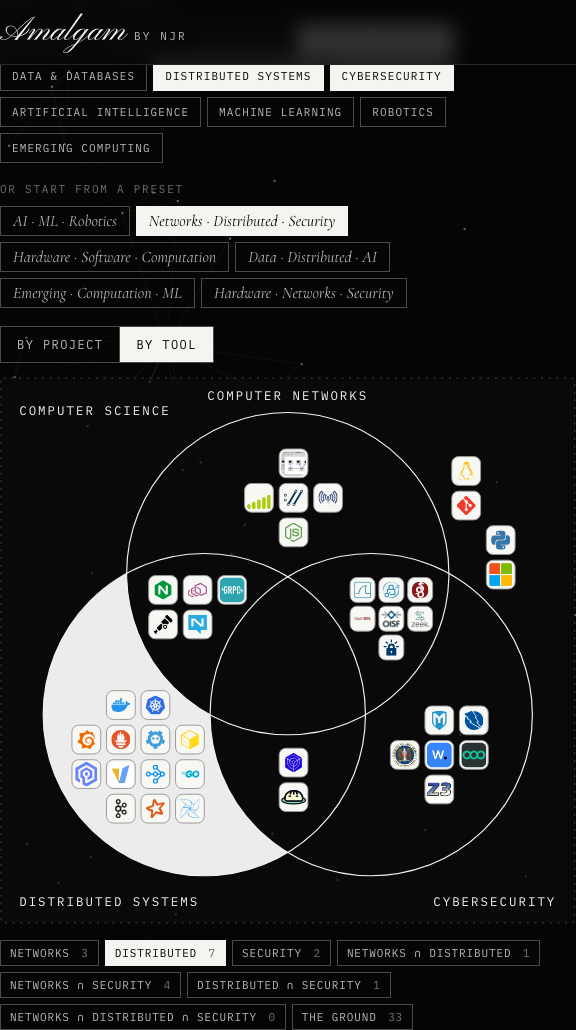
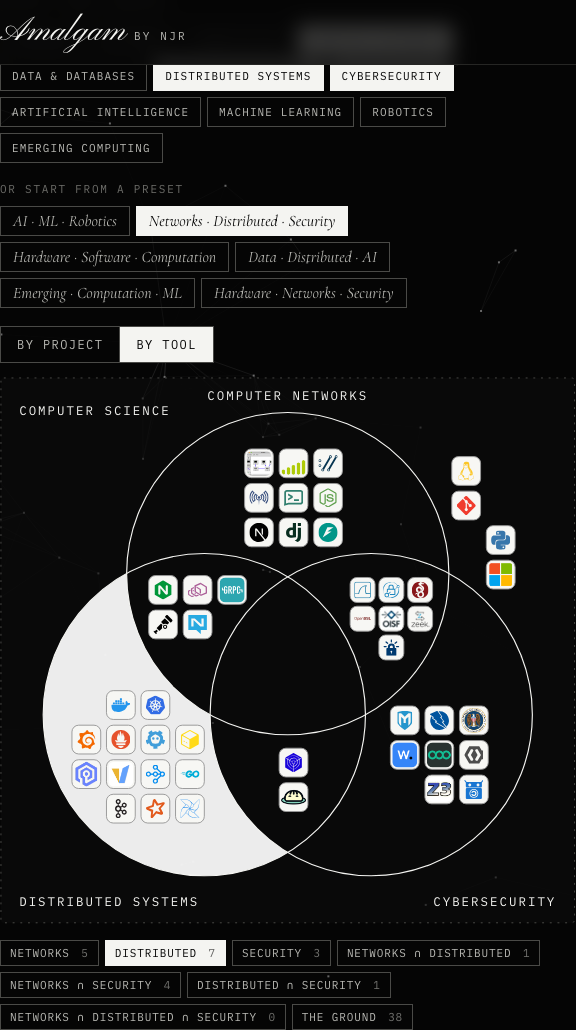
Update README for Build Paths and refresh screenshots

Changed region(s): [[0.4062, 0.435, 0.5938, 0.5592], [0.6562, 0.6835, 0.875, 0.8078]]

diff --git a/README.md b/README.md
@@ -8,9 +8,10 @@
 
 [![Live](https://img.shields.io/badge/live-amalgambynjr.vercel.app-000000?style=flat-square&logo=vercel&logoColor=white)](https://amalgambynjr.vercel.app)
 ![Domains](https://img.shields.io/badge/domains-11-000000?style=flat-square)
-![Tools](https://img.shields.io/badge/tools-115-000000?style=flat-square)
-![Projects](https://img.shields.io/badge/projects-51-000000?style=flat-square)
-![Chains](https://img.shields.io/badge/recommendation%20chains-18-000000?style=flat-square)
+![Tools](https://img.shields.io/badge/open--source%20tools-141-000000?style=flat-square)
+![Build paths](https://img.shields.io/badge/build%20paths-11-000000?style=flat-square)
+![Projects](https://img.shields.io/badge/projects-59-000000?style=flat-square)
+![Chains](https://img.shields.io/badge/recommendation%20chains-20-000000?style=flat-square)
 ![Stack](https://img.shields.io/badge/stack-HTML%20·%20CSS%20·%20JS-000000?style=flat-square)
 
 ![Amalgam hero](docs/hero.png)
@@ -21,7 +22,7 @@
 
 ## About
 
-**Amalgam** is a research-style field guide to the **free and open-source tools** you can use to build a proper project across **eleven domains of computer science**, read alongside **current trends and live news**:
+**Amalgam** is a research-style field guide to building real projects with **only free, open-source tools**. Start from what you want to build (a web app, a mobile app, an AI/ML system, a robot), see the **common architecture** for that kind of project with the open tools for every layer, and explore project recipes across **eleven domains of computer science**, alongside **current trends and live news**:
 
 > Hardware · Software · Computation · Computer Networks · Data & Databases · Distributed Systems · Cybersecurity · Artificial Intelligence · Machine Learning · Robotics · Emerging Computing
 
@@ -33,12 +34,17 @@ The design is futuristic and monochrome, with black and white throughout and onl
 
 | Section | What it does |
 |---|---|
-| **§1 The Atlas** | 115 open-source tools, each with its full-colour logo, purpose, licence and every domain it serves. Filter by any of the 11 domains or search by name, purpose, domain or licence (e.g. `quantum`, `VPN`, `LLM`, `MIT`). |
-| **§2 The Amalgam Map** | An interactive **Venn diagram of any three domains**, picked by hand or from presets (*AI · ML · Robotics*, *Networks · Distributed · Security*, *Hardware · Software · Computation*…). Each project and tool is tagged with its domains, so it lands in the matching overlap. **By project** writes project names inside each region; **by tool** places tool logos there, with *+N more* when a region is crowded. Select a region to see its tools and projects, or a logo to see every project the tool appears in, the role it plays and why it is needed. |
-| **§3 Recommendation Chains** | Step-by-step tool chains for 18 projects spanning every domain. Every link names the tool, the **role** it plays, **why the project needs it**, and an alternative. Reach a chain from its project in the map via *Follow the chain →*. |
-| **§4 Currents & Trends** | Twelve movements across the field: agentic AI, open-weight models, post-quantum cryptography, open hardware and RISC-V, community forks after licence changes, in-process analytics, OpenTelemetry, quantum error correction and more, each linked to its tools. |
+| **§1 Build Paths** | Start here. Choose a path: **Software Engineering → Web applications / Mobile applications**, **AI / ML**, **Robotics**, then Data, Distributed systems, Networks, Security, Hardware, Computation and Emerging computing. Each path shows its **common-path architecture**: the layers a typical project passes through (e.g. *Interface → Build & style → Server & API → Data → Identity → Test → Deliver → Observe*), with the open-source tools for every layer. Below it are **explorable project cards**; hover one to light up the layers and tools it uses, or open it in a drawer showing the full stack, each tool's role and why it's needed, where it sits in the architecture, and links to its chain and its place on the map. |
+| **§2 The Amalgam Map** | An interactive **Venn diagram of any three domains**, picked by hand or from presets. Each project and tool lands in the overlap matching its domains. **By project** writes project names inside each region; **by tool** places tool logos there, with *+N more* when a region is crowded. |
+| **§3 Recommendation Chains** | Step-by-step tool chains for 20 projects. Every link names the tool, the **role** it plays, **why the project needs it**, and an alternative. |
+| **§4 Currents & Trends** | Twelve movements across the field, each linked to its tools. |
 | **§5 The Live Wire** | Headlines on AI, ML, Robotics, Security, Networking, Databases, Distributed Systems, Hardware, Quantum and Open Source, fetched live from the Hacker News index each time the page loads. |
-| **§6 Method** | How tools were chosen, and a reminder to verify licences before you build. |
+| **§6 Method** | How tools were chosen: open-source licences only, no paid plans, and open community forks where a project left open source. |
+| **§7 The Atlas** | The full catalogue at the bottom: 141 open-source tools with logos, licences and domains. Filter by domain or search; every card opens the tool drawer. |
+
+Clicking a tool anywhere on the site opens a drawer with its licence, domains, its layer in each build path, and every project that uses it.
+
+![Build paths](docs/paths.png)
 
 | By project | By tool |
 |---|---|
@@ -91,7 +97,7 @@ Plain **HTML, CSS and vanilla JavaScript**, with no framework and no build step.
 ```
 ├── index.html   # Page structure and sections
 ├── styles.css   # Monochrome, research-style design
-├── data.js      # Domains, tools, projects, chains, trends, map presets, news topics (edit content here)
+├── data.js      # Domains, build tracks, architectures, tools, projects, chains, trends, map presets, news topics
 ├── app.js       # Atlas filtering, Venn map, chains, live wire, background animation
 ├── logos/       # Self-hosted tool logos
 └── docs/        # README screenshots
@@ -112,11 +118,12 @@ All content lives in **`data.js`**.
 
 - **Domains:** `hardware`, `software`, `computation`, `networks`, `data`, `distributed`, `security`, `ai`, `ml`, `robotics`, `emerging`.
 - **Add a tool:** append to `tools` with `domains` (primary first, then any others it serves), `name`, `logo`, `kind`, `license`, `url` and `desc`. Set `foundation: true` for tools every project relies on; they sit on the map's ground when none of their domains is chosen.
-- **Add a project:** append to `projects` with `name`, a `short` label for the map, its `domains`, `desc` and `tools`. Tool names must exactly match a tool's `name`. The map places it automatically.
+- **Add a project:** append to `projects` with its `track` (build path), `name`, a `short` label for the map, its `domains`, `desc` and `tools`. Tool names must exactly match a tool's `name`. The path, the drawer and the map pick it up automatically.
+- **Edit an architecture:** each build path's common path lives in `architectures[track].stages` as `{ name, role, tools }`, in order.
 - **Add a chain:** append to `chains` with `project` (matching a project name), `level`, `goal` and ordered `steps` of `{ stage, tool, role, why, alt? }`.
 - **Add a map preset:** append `{ name, domains: [three ids] }` to `venn.presets`.
 - **Logos:** put the file in `logos/` and set the tool's `logo` path. Logos are shown in full colour on light tiles; tools without one get a lettered tile.
-- Only include tools that are **free to use** and published under an **open licence**.
+- Only include tools that are **free to use** and published under an **open-source licence**. No paid plans or proprietary services.
 
 ## Deploy
 
